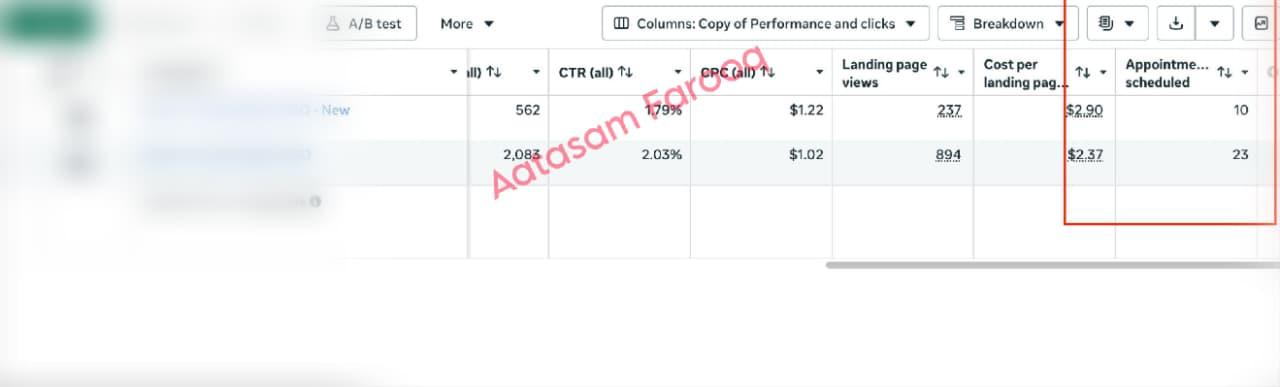
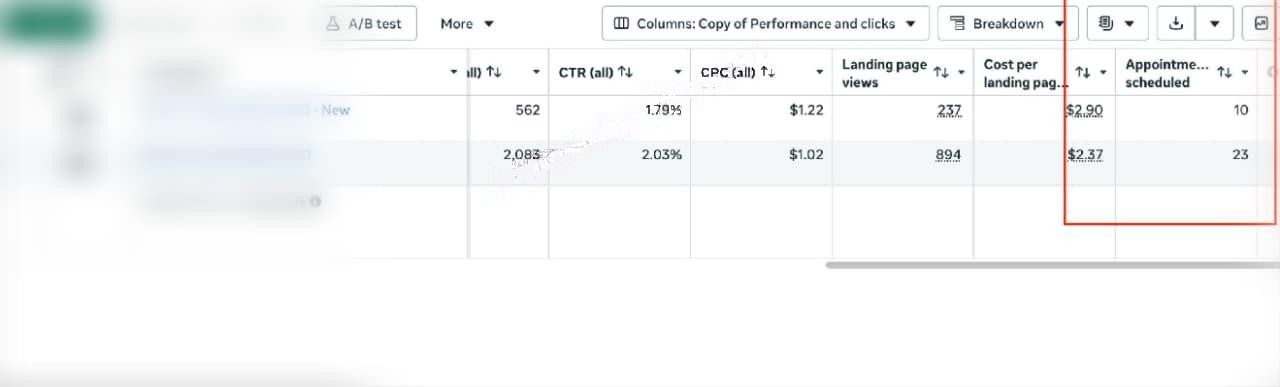
Uniform 16:10 case screenshots, remove maternity watermark
- All case study screenshots and thumbnails use a 16:10 frame with
  object-fit: cover; a per-image --focus keeps the key metric columns in
  view for wide Ads Manager tables
- Captions move from an overlay into a bar under each image so they never
  cover screenshot data
- Remove the diagonal watermark from portfolio-10 by reversing the pink
  blend; the watermarked original is kept in _private/

Claude-Session: https://claude.ai/code/session_019DTGzVuPxxYj2o7npyRzbE

Changed region(s): [[0.375, 0.124, 0.625, 0.4961]]

diff --git a/index.html b/index.html
@@ -151,12 +151,12 @@
             </ul>
             <div class="proof" aria-label="Proof screenshots">
               <button class="proof__main" data-lightbox="miami" data-src="assets/portfolio-9-blurred.jpg" data-caption="Med spa account, lifetime view: 253 leads at $13.61 and 160 leads at $14.61 across treatment campaigns.">
-                <img src="assets/portfolio-9-blurred.jpg" alt="Ads Manager: med spa treatment campaigns, 253 leads at $13.61" loading="lazy" width="1280" height="594">
+                <img src="assets/portfolio-9-blurred.jpg" style="--focus: 80% 50%" alt="Ads Manager: med spa treatment campaigns, 253 leads at $13.61" loading="lazy" width="1280" height="594">
                 <span>253 leads at $13.61</span>
               </button>
               <div class="proof__strip">
                 <button data-lightbox="miami" data-src="assets/portfolio-7-blurred.jpg" data-caption="Aesthetics account, Jul 6 to Aug 4: $399 Botox and lip filler landing page offers bringing in website leads.">
-                  <img src="assets/portfolio-7-blurred.jpg" alt="Ads Manager: $399 Botox and lip filler landing page campaigns" loading="lazy" width="1156" height="611">
+                  <img src="assets/portfolio-7-blurred.jpg" style="--focus: 80% 50%" alt="Ads Manager: $399 Botox and lip filler landing page campaigns" loading="lazy" width="1156" height="611">
                 </button>
               </div>
             </div>
@@ -179,12 +179,12 @@
             </ul>
             <div class="proof" aria-label="Proof screenshots">
               <button class="proof__main" data-lightbox="aesthetics" data-src="assets/portfolio-6-blurred.jpg" data-caption="Aesthetics account, Jul 6 to Aug 4: top campaigns at 272 leads for $11.04 each and 245 leads for $12.73 each.">
-                <img src="assets/portfolio-6-blurred.jpg" alt="Ads Manager: 272 leads at $11.04 and 245 leads at $12.73" loading="lazy" width="1280" height="690">
+                <img src="assets/portfolio-6-blurred.jpg" style="--focus: 80% 50%" alt="Ads Manager: 272 leads at $11.04 and 245 leads at $12.73" loading="lazy" width="1280" height="690">
                 <span>272 leads at $11.04</span>
               </button>
               <div class="proof__strip">
                 <button data-lightbox="aesthetics" data-src="assets/portfolio-8-blurred.jpg" data-caption="IV and wellness account, lifetime view: 188 leads at $17.69 and 181 leads at $14.32.">
-                  <img src="assets/portfolio-8-blurred.jpg" alt="Ads Manager: IV therapy campaigns, 188 leads at $17.69 and 181 at $14.32" loading="lazy" width="1280" height="626">
+                  <img src="assets/portfolio-8-blurred.jpg" style="--focus: 80% 50%" alt="Ads Manager: IV therapy campaigns, 188 leads at $17.69 and 181 at $14.32" loading="lazy" width="1280" height="626">
                 </button>
               </div>
             </div>
@@ -206,8 +206,8 @@
               <li>Measured on booked appointments, not just leads</li>
             </ul>
             <div class="proof" aria-label="Proof screenshots">
-              <button class="proof__main proof__main--right" data-lightbox="maternity" data-src="assets/portfolio-10.jpg" data-caption="Two campaigns: 10 and 23 appointments scheduled, 33 in total, from 237 and 894 landing page views.">
-                <img src="assets/portfolio-10.jpg" alt="Ads Manager: two campaigns with 10 and 23 appointments scheduled" loading="lazy" width="1280" height="387">
+              <button class="proof__main" data-lightbox="maternity" data-src="assets/portfolio-10.jpg" data-caption="Two campaigns: 10 and 23 appointments scheduled, 33 in total, from 237 and 894 landing page views.">
+                <img src="assets/portfolio-10.jpg" style="--focus: 100% 50%" alt="Ads Manager: two campaigns with 10 and 23 appointments scheduled" loading="lazy" width="1280" height="387">
                 <span>33 appointments scheduled</span>
               </button>
             </div>

diff --git a/styles.css b/styles.css
@@ -247,16 +247,24 @@ p { margin: 0; }
   padding: 0; border: 1px solid var(--border); border-radius: 10px;
   background: #fff; overflow: hidden; position: relative; display: block; width: 100%;
 }
-.proof__main img { width: 100%; aspect-ratio: 16 / 7; object-fit: cover; object-position: 60% 45%; display: block; transition: transform .4s ease; }
-.proof__main--right img { object-position: right center; }
+/* Every case study screenshot uses the same 16:10 frame; --focus picks which part of a wide screenshot stays in view */
+.proof img {
+  width: 100%; aspect-ratio: 16 / 10; object-fit: cover; object-position: var(--focus, 50% 50%);
+  display: block; transition: filter .25s ease;
+}
 .proof__strip { display: grid; grid-template-columns: repeat(4, 1fr); gap: 8px; margin-top: 8px; }
-.proof__strip img { width: 100%; aspect-ratio: 4 / 3; object-fit: cover; object-position: 55% 70%; transition: transform .4s ease, opacity .2s; }
-.proof__main span, .gallery__item span {
+.proof__main span {
+  display: block; padding: 9px 12px; background: var(--bg); border-top: 1px solid var(--border);
+  font-size: 13px; font-weight: 600; color: var(--text); text-align: left;
+  white-space: nowrap; overflow: hidden; text-overflow: ellipsis;
+}
+.proof button:hover img { filter: brightness(0.9); }
+.gallery__item span {
   position: absolute; left: 0; right: 0; bottom: 0; padding: 26px 12px 9px;
   font-size: 13px; font-weight: 600; color: #fff; text-align: left;
   background: linear-gradient(transparent, rgba(12,10,11,0.92));
 }
-.proof button:hover img, .gallery__item:hover img { transform: scale(1.04); }
+.gallery__item:hover img { transform: scale(1.04); }
 
 .more { margin-top: 48px; }
 .more h3 { font-family: var(--font-display); font-weight: 500; font-size: 28px; text-align: center; }
